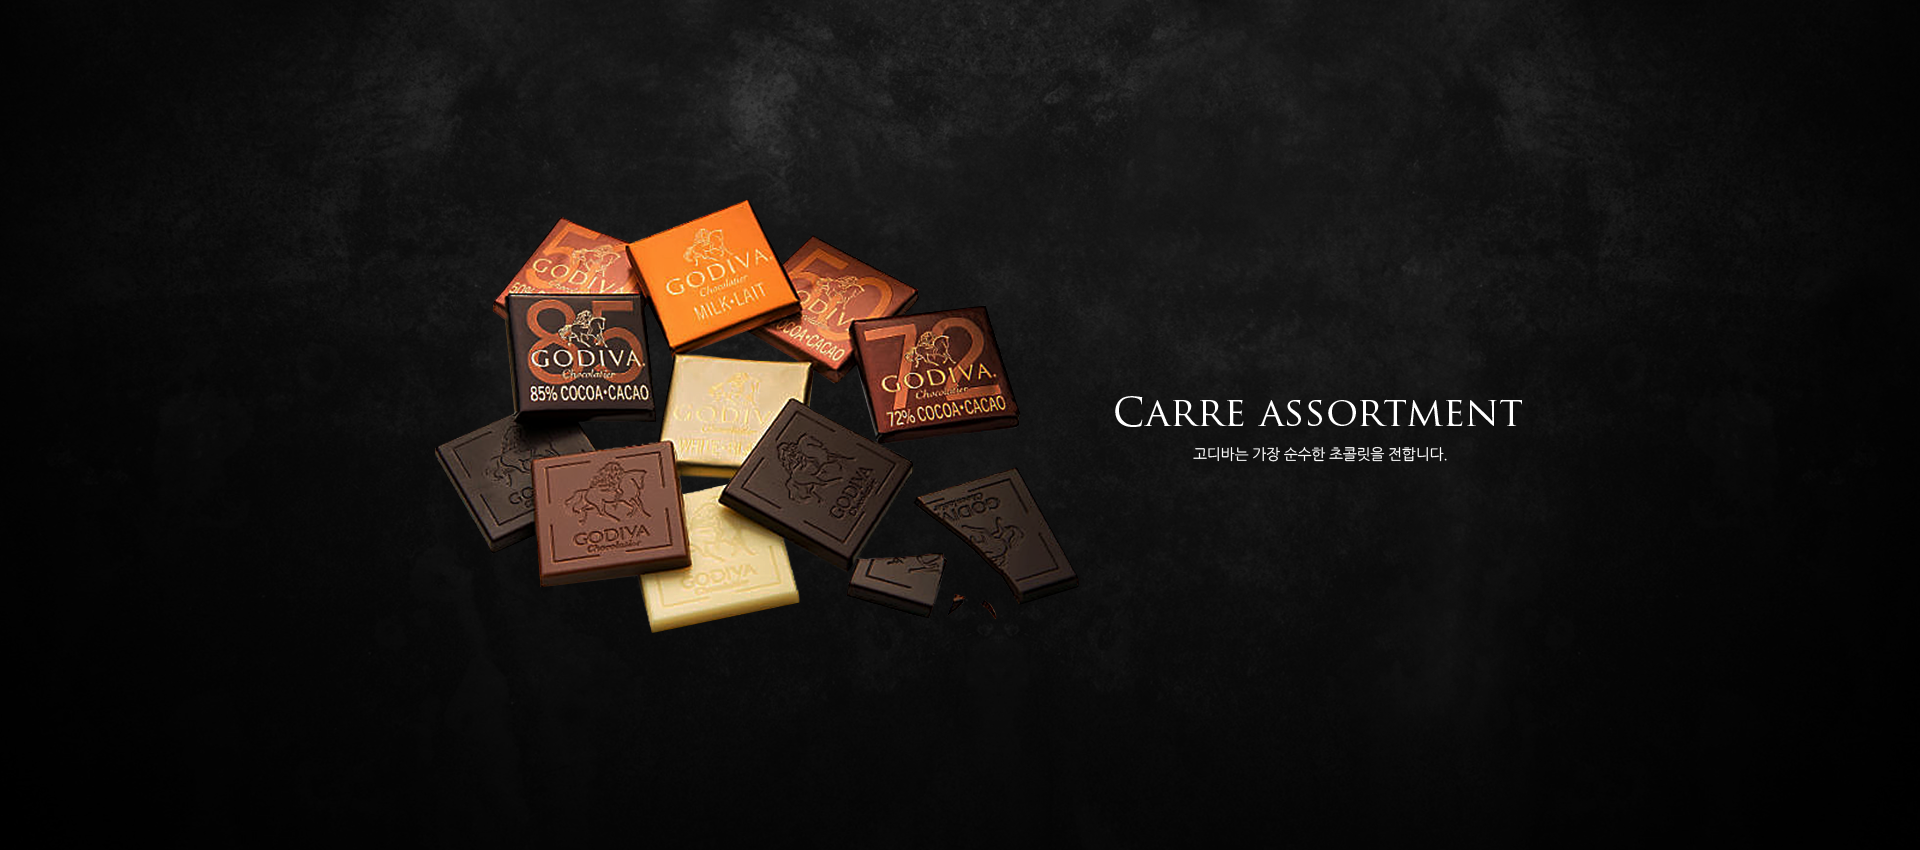
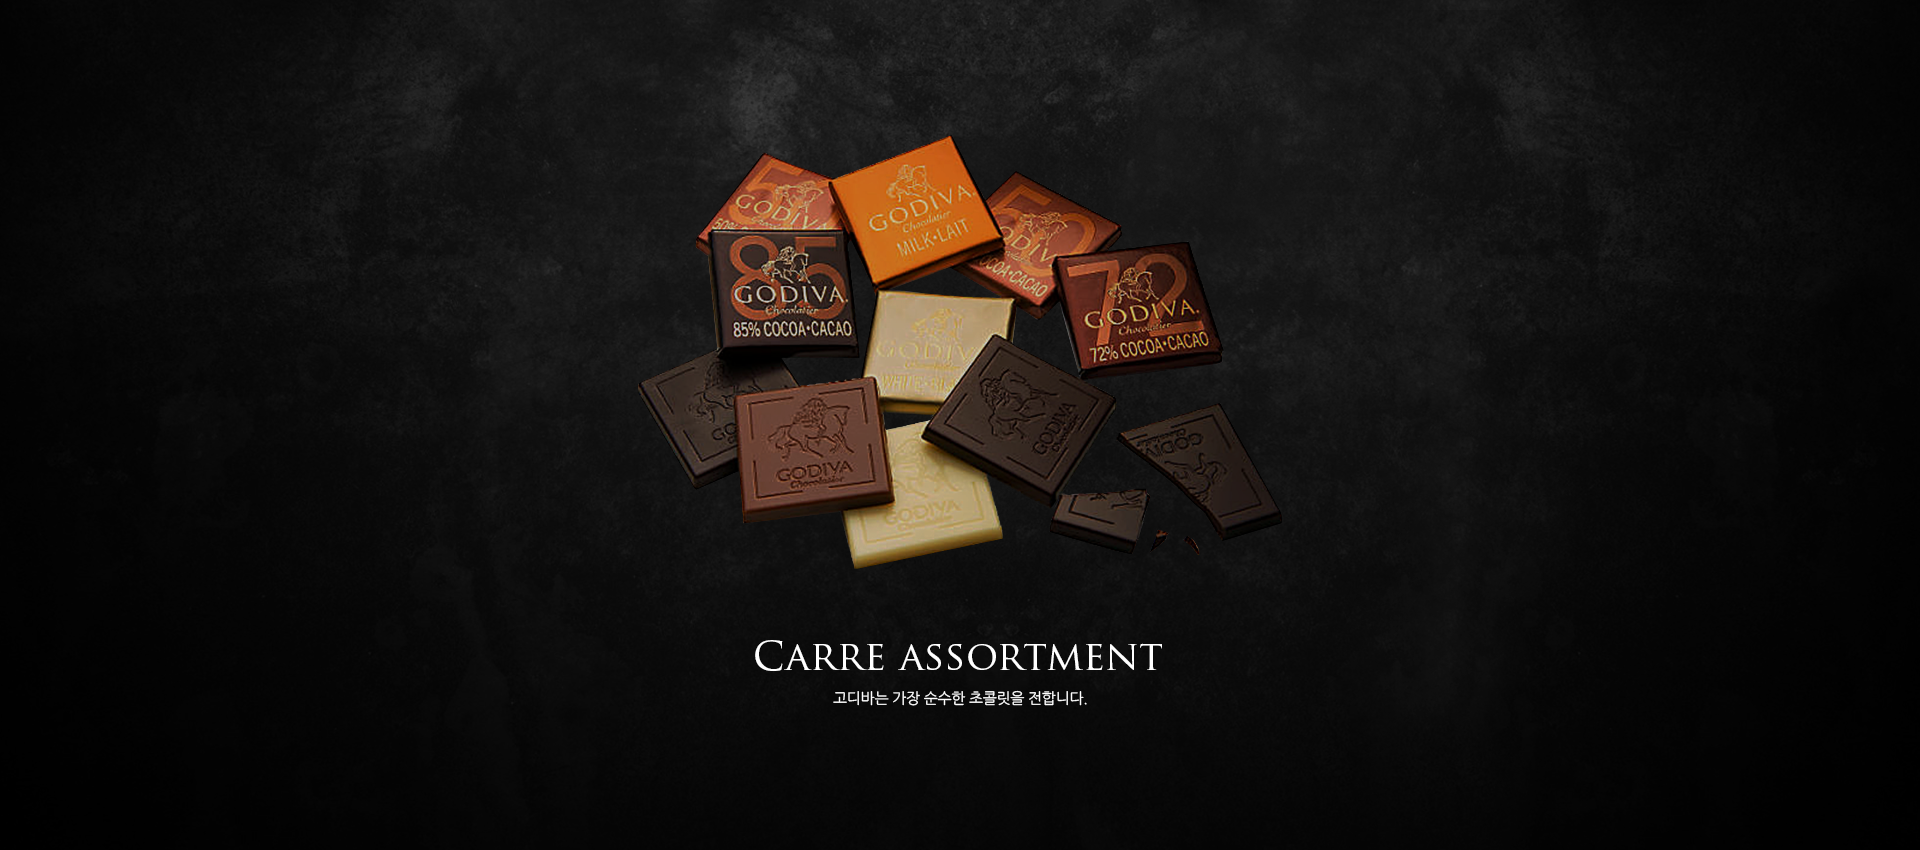
mobile slide added

Changed region(s): [[0.2188, 0.1529, 0.7812, 0.7341], [0.4062, 0.7647, 0.5938, 0.8259]]

diff --git a/index-1.html b/index-1.html
@@ -233,11 +233,19 @@
 		<main class="slider_container">
 			
 			<ul class="slider">
-				<li><img class="slide" src="img/slide/slide_01.png" alt=""/></li>
-				<li><img class="slide" src="img/slide/slide_02.png" alt=""/></li>
-				<li><img class="slide" src="img/slide/slide_03-1.png" alt=""/></li>
-				<li><img class="slide" src="img/slide/slide_06-1.png" alt=""/></li>
-				<li><img class="slide" src="img/slide/slide_04-1.png" alt=""/></li>
+				<li><img src="img/slide/slide_01.png" alt=""/></li>
+				<li><img src="img/slide/slide_02.png" alt=""/></li>
+				<li><img src="img/slide/slide_03.png" alt=""/></li>
+				<li><img src="img/slide/slide_04.png" alt=""/></li>
+				<li><img src="img/slide/slide_05.png" alt=""/></li>
+			</ul>
+			
+			<ul class="slider_mobile">
+				<li><img src="img/slide/slide_01_768px.png" alt=""/></li>
+				<li><img src="img/slide/slide_02_768px.png" alt=""/></li>
+				<li><img src="img/slide/slide_03_768px.png" alt=""/></li>
+				<li><img src="img/slide/slide_04_768px.png" alt=""/></li>
+				<li><img src="img/slide/slide_05_768px.png" alt=""/></li>
 			</ul>
 			
 		</main>

diff --git a/css/index-1_mobile.css b/css/index-1_mobile.css
@@ -33,6 +33,10 @@ body {
 	display: none;
 }
 
+.slider_container .slider_mobile {
+	display: none;
+}
+
 
 @media all and (max-width: 768px) {
 	
@@ -88,3 +92,40 @@ body {
 
 }
 
+
+/* --------------------대슬라이드------------------- */
+
+
+.slider_container .slider_mobile {
+	display: none;
+}
+
+
+@media all and (max-width: 768px) {
+	
+.slider_container .slider {
+	display: none;
+}
+
+.slider_container .slider_mobile {
+	display: block;
+}
+
+.slider_container .slider_mobile {
+	width: 100%;
+	overflow: hidden;
+}
+
+.slider_container .slider_mobile li {
+	width: 100%;
+	float: left;
+}
+
+ul.slider_mobile li img {
+	display: block;
+	width: 100%;
+	vertical-align: bottom;
+	border: none;
+}
+
+}

diff --git a/js/myslider.js b/js/myslider.js
@@ -3,3 +3,9 @@ $(window).on('load', function(){
 	$('.slider').slider({height : 850 + 'px'});
 	
 });
+
+$(window).on('load', function(){
+	
+	$('.slider_mobile').slider({height : 850 + 'px'});
+	
+});
